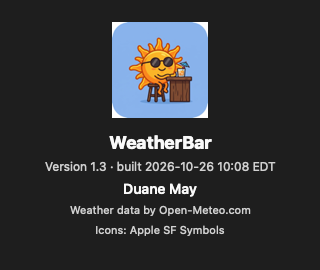
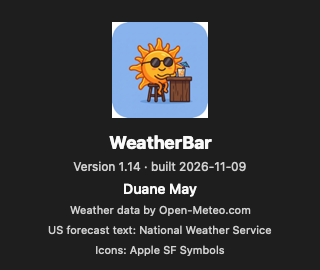
Shorten the README; move technical detail to DEVELOPMENT.md
The README keeps what users need: what it is, features with screenshots, requirements, install, credits and license. Building, test modes, defaults keys, updates, code signing, CI and releasing move to DEVELOPMENT.md. About screenshot refreshed to 1.14.

Changed region(s): [[0.125, 0.8296, 0.8438, 0.9481], [0.125, 0.5926, 0.875, 0.6519]]

diff --git a/README.md b/README.md
@@ -1,39 +1,22 @@
 # WeatherBar
 
-A small native macOS menu bar weather app. The menu bar shows the current conditions icon with two
-stacked columns: the current temperature in °F over °C, and today's high over low. Click it for a
-two-column forecast panel.
+A small weather app for the Mac menu bar. It shows the current conditions with the temperature in °F
+and °C and the day's high and low. Click it for the hourly and 7-day forecast.
 
 ![Dropdown](docs/dropdown.png)
 
 ## Features
 
-- **Menu bar:** conditions icon plus `56°F  H 65°` over `13°C  L 47°`, drawn as a template image so
-  it follows light and dark menu bars.
-- **Dropdown, left column:** current conditions (temperature in both units, feels-like, humidity,
-  wind), then the next 10 hours with temperature, conditions, precipitation chance, wind and gusts,
-  feels-like and humidity.
-- **Dropdown, right column:** today's high and low, conditions, precipitation, humidity, wind,
-  gusts, sunrise and sunset, then the next 7 days with highs, lows, conditions, precipitation chance,
-  rain amount, wind and gusts. In the US, the conditions are the National Weather Service's own wording
-  for each day and night; hover over a day for the full forecast.
-- **Weather alerts (US):** active National Weather Service warnings, watches and advisories appear in a
-  full-width red band between the current conditions and the forecast, and a red dot appears on the menu
-  bar icon. Each alert shows its name, when it ends, who issued it and what's expected; hover for the full
-  text and instructions.
-- **Both units everywhere.** A Celsius-first setting flips every temperature, including the menu
-  bar's high and low.
-- **Location:** uses this Mac's location through Location Services and shows it as "City, ST". If
-  that is denied or unavailable it falls back to a fixed place, Novi, MI by default.
-- **Settings window:** Mac location or fixed place, place search by name, card counts, Celsius
-  first, start at login.
-- **Open Weather App** opens Apple's Weather app. **Refresh** fetches immediately; otherwise it
-  refreshes every 10 minutes and on wake from sleep.
-- **Updates itself** from this repo's GitHub Releases. It checks at launch, every 12 hours, and when
-  the Mac wakes, so a release published at night shows up the next morning. It offers
-  to install a newer version, then downloads it, verifies it, swaps it in place and relaunches. The
-  menu also has **Check for Updates…**.
-- **About window** with version and build date.
+- **Menu bar:** a conditions icon, the temperature in °F over °C, and the high over the low.
+- **Forecast panel:** current conditions and the day ahead at the top, then the next 10 hours and the
+  next 7 days. Every temperature is shown in both °F and °C.
+- **Forecaster wording (US):** each day reads like "Mostly Cloudy then Chance Light Rain", with the
+  night's outlook. Hover over a day for the full forecast.
+- **Weather alerts (US):** warnings, watches and advisories appear in a red band, and a red dot appears
+  on the menu bar icon.
+- **Your location:** uses the Mac's location, or a place you choose in Settings.
+- **Keeps itself up to date:** checks for new versions twice a day and when the Mac wakes, shows what
+  changed, and installs with one click.
 
 ![Weather alert](docs/alert.png)
 
@@ -43,158 +26,27 @@ two-column forecast panel.
 
 ## Requirements
 
-- Apple Silicon Mac, macOS 13 or later. Intel is not supported.
-- To build: Xcode Command Line Tools (`xcode-select --install`). Full Xcode is not needed.
+An Apple Silicon Mac with macOS 13 or later.
 
 ## Install
 
-**From a release:** download `WeatherBar-<version>.zip` from the
-[Releases](../../releases) page, unzip, and open `WeatherBar.app`. It is ad-hoc signed, not
-notarized, so the first launch needs right-click, then Open. Or clear the quarantine flag:
+1. Download `WeatherBar-<version>.zip` from the [Releases](../../releases) page and unzip it.
+2. Right-click `WeatherBar.app` and choose **Open**. WeatherBar isn't from the App Store, so macOS asks
+   you to confirm the first time.
+3. When WeatherBar offers to move itself to the Applications folder, let it. Updates install there.
+4. Allow Location when asked, or pick a place in **Settings…**.
+5. Optional: turn on **Start WeatherBar at login** in Settings.
 
-```bash
-xattr -dr com.apple.quarantine WeatherBar.app
-```
-
-On first launch it offers to move itself to /Applications. Let it: self-update needs a folder it can
-write to, and the login item points at wherever the app is. Then turn on **Start WeatherBar at
-login** in Settings.
-
-## Updates
-
-WeatherBar asks `api.github.com/repos/duanemay/weatherbar/releases/latest` for the newest release at
-launch, every 12 hours, and on wake from sleep when the last check is over an hour old. When it finds a newer version it shows the release notes with **Install
-and Relaunch**, **Later** and **Skip This Version**. Settings has one **Updates** menu: **Ask before installing** (the default),
-**Install automatically**, or **Don't check automatically**. Check for Updates… in the menu works with
-any of them.
-
-Before anything is replaced, the download must pass four checks, and a failure leaves the installed
-app untouched:
-
-1. Its SHA-256 matches the `.sha256` file published with the release.
-2. Its bundle identifier is `com.mayhoo.weatherbar`.
-3. Its version matches the release tag.
-4. Its code signature verifies.
-
-The new copy is unpacked beside the old one. After WeatherBar quits, a short script swaps the two,
-restores the old copy if the swap fails, and relaunches. The checks need the repository to be public,
-because GitHub's release API returns 404 to unauthenticated requests for a private repo.
-
-## Code signing
-
-Releases from 1.14 on are signed with a self-signed **WeatherBar Code Signing** certificate (SHA-1
-`305D14CB4AA12B2559947D3F4CD41D4510371334`). Because every version carries the same signing identity,
-macOS keeps permissions such as Location across updates. The updater also requires that certificate: a
-download signed by anything else is refused, even if its checksum file matches.
-
-The certificate is not from Apple, so Gatekeeper still treats a downloaded copy as coming from an
-unidentified developer on first launch (right-click, then Open). Updates installed by the app itself are
-not quarantined and open normally.
-
-CI imports the certificate from the `SIGNING_CERT_P12` and `SIGNING_CERT_PASSWORD` Actions secrets into a
-temporary keychain and passes it to `build.sh` through `SIGN_IDENTITY` and `SIGN_KEYCHAIN`. Local builds
-without those variables are ad-hoc signed, which is fine for development. Release builds fail if they
-aren't signed with the certificate.
-
-**From source:**
-
-```bash
-./build.sh       # builds build/WeatherBar.app
-./install.sh     # copies it to /Applications and launches it
-```
-
-## Settings from the command line
-
-Everything in the Settings window is a `defaults` key. Quit and relaunch after changing one.
-
-```bash
-defaults write com.mayhoo.weatherbar useLocation  -bool true     # use this Mac's location (default)
-defaults write com.mayhoo.weatherbar useNWS       -bool false    # skip National Weather Service wording
-defaults write com.mayhoo.weatherbar place        -string "Novi, MI"
-defaults write com.mayhoo.weatherbar latitude     -float 42.4806
-defaults write com.mayhoo.weatherbar longitude    -float -83.4755
-defaults write com.mayhoo.weatherbar celsiusFirst -bool true     # °C first, bar high/low in °C
-defaults write com.mayhoo.weatherbar hours        -int 10        # hourly cards
-defaults write com.mayhoo.weatherbar days         -int 7         # daily cards
-defaults write com.mayhoo.weatherbar menuWidth    -float 440     # width of each dropdown column
-defaults write com.mayhoo.weatherbar refreshMinutes -int 10
-defaults write com.mayhoo.weatherbar fontSize     -float 9       # menu bar text size
-defaults write com.mayhoo.weatherbar bigTemp      -bool true     # add a large temp before the columns
-defaults write com.mayhoo.weatherbar skipMovePrompt -bool true   # never offer to move to /Applications
-defaults write com.mayhoo.weatherbar updateMode -string ask         # ask (default), auto, or off
-defaults write com.mayhoo.weatherbar updateCheckHours -float 12     # hours between scheduled checks
-```
-
-## Development
-
-The whole app is one file, `main.swift`, using AppKit, CoreLocation and ServiceManagement. There is
-no Xcode project.
-
-| File | Purpose |
-|---|---|
-| `main.swift` | The app: data fetch, menu bar drawing, dropdown cards, Settings and About windows. |
-| `Info.plist` | Bundle metadata. Menu bar only (`LSUIElement`), location permission text, version. |
-| `build.sh` | Compiles with `swiftc`, builds `AppIcon.icns` from `icon.png`, stamps the build date, ad-hoc signs. |
-| `install.sh` | Copies the built app to /Applications and launches it. |
-| `icon.png` | App icon source, 1024 × 1024. |
-| `docs/` | Screenshots and the alternate icon candidate. |
-
-**Test modes** run headless, which is useful over SSH or in CI:
-
-```bash
-B=build/WeatherBar.app/Contents/MacOS/WeatherBar
-$B --once                          # print one fetch to stdout
-$B --geocode "East Lansing"        # test the place search
-$B --render out.png [--light]      # draw the dropdown to a PNG
-$B --render-settings out.png       # draw the Settings window
-$B --render-about out.png          # draw the About window
-$B --check-update                  # ask GitHub Releases for a newer version
-$B --apply-update                  # download, verify and install a newer version in place
-```
-
-**Testing the updater** without GitHub: serve a release JSON and zip locally and point the app at it
-with `defaults write com.mayhoo.weatherbar updateFeedURL -string http://127.0.0.1:8765/release.json`,
-then run `--apply-update`. Delete the key afterwards.
-
-**Versioning:** the version lives in `Info.plist` (`CFBundleShortVersionString`). Bump it there,
-commit, then tag `v<version>` to publish a release. Installed copies pick it up within 12 hours, or at the next wake.
-
-## Continuous integration
-
-`.github/workflows/build.yml` runs on every push to `main`, on pull requests, and on demand. On an
-Apple Silicon macOS runner it:
-
-1. Builds the app with `build.sh`.
-2. Checks the bundle: valid plist, icon present, arm64 binary, valid signature.
-3. Smoke-tests a live weather fetch and a place search. These don't fail the build if the weather
-   service is unreachable.
-4. Renders the dropdown, Settings and About windows to PNGs.
-5. Zips the app, writes its SHA-256 checksum, and uploads both plus the renders as build artifacts.
-
-**Dependencies:** the app has no third-party libraries; it uses only macOS system frameworks. The
-only external dependencies are the workflow's GitHub Actions, pinned to commit SHAs. Dependabot
-(`.github/dependabot.yml`) checks them every Monday and opens one grouped pull request when any have a
-new release.
-
-Pushing a tag such as `v1.5` also publishes a GitHub Release with the zip and its `.sha256` file
-attached. The installed apps' updater reads exactly those two files. The
-release job fails if the tag doesn't match the version in `Info.plist`.
+After that, updates arrive on their own. **Check for Updates…** in the menu looks right away.
 
 ## Data and credits
 
-- Weather numbers and place search from [Open-Meteo](https://open-meteo.com), free with no API key.
-- In the US, forecast wording from the [National Weather Service](https://www.weather.gov/documentation/services-web-api)
-  (`api.weather.gov`, free, no key): each day's phrase such as "Mostly Cloudy then Chance Light Rain",
-  the night's phrase, and the current period's full forecast in the Today card. Hover over a day for the
-  forecaster's full text. Elsewhere, or if NWS doesn't answer within 10 seconds, the cards show Open-Meteo's
-  one-word conditions. The temperatures always come from Open-Meteo, so they can differ by a few degrees
-  from the numbers inside the NWS text.
-- In the US, active alerts from the same service (`api.weather.gov/alerts/active`), checked at every
-  weather refresh.
-- Icons are Apple SF Symbols, the same family Apple Weather uses.
-- **Why not Apple WeatherKit:** it requires a paid Apple Developer Program membership and an app
-  signed with the WeatherKit entitlement. Switching would mean replacing `fetchWeather` with a
-  `WeatherService` call and signing with a developer certificate.
+- Weather from [Open-Meteo](https://open-meteo.com).
+- US forecast wording and alerts from the [National Weather Service](https://www.weather.gov).
+- Icons are Apple SF Symbols.
+
+Building it yourself, the settings you can change from Terminal, and how updates and releases work are
+in [DEVELOPMENT.md](DEVELOPMENT.md).
 
 ## License
 

diff --git a/DEVELOPMENT.md b/DEVELOPMENT.md
@@ -1,0 +1,135 @@
+# Developing WeatherBar
+
+## Building
+
+The whole app is one file, `main.swift`, using AppKit, CoreLocation, ServiceManagement and CryptoKit.
+There is no Xcode project and no third-party code. You need an Apple Silicon Mac with the Xcode Command
+Line Tools (`xcode-select --install`).
+
+```bash
+./build.sh       # builds build/WeatherBar.app
+./install.sh     # copies it to /Applications and launches it
+```
+
+| File | Purpose |
+|---|---|
+| `main.swift` | The app: data fetch, menu bar drawing, forecast cards, Settings and About windows, updater. |
+| `Info.plist` | Bundle metadata. Menu bar only (`LSUIElement`), location permission text, version. |
+| `build.sh` | Compiles with `swiftc`, builds `AppIcon.icns` from `icon.png`, stamps the build date, signs. |
+| `install.sh` | Copies the built app to /Applications and launches it. |
+| `icon.png` | App icon source, 1024 × 1024. |
+| `docs/` | Screenshots and the alternate icon candidate. |
+
+## Test modes
+
+These run without a screen, which is useful over SSH and in CI.
+
+```bash
+B=build/WeatherBar.app/Contents/MacOS/WeatherBar
+$B --once                          # print one fetch, including NWS wording and alerts
+$B --geocode "East Lansing"        # test the place search
+$B --render out.png [--light]      # draw the forecast panel to a PNG
+$B --render-settings out.png       # draw the Settings window
+$B --render-about out.png          # draw the About window
+$B --render-bar out.png            # draw the menu bar item, with the alert dot, on dark and light bars
+$B --check-update                  # ask GitHub Releases for a newer version
+$B --apply-update                  # download, verify and install a newer version in place
+```
+
+To test the updater without GitHub, serve a release JSON and zip locally, point the app at it with
+`defaults write com.mayhoo.weatherbar updateFeedURL -string http://127.0.0.1:8765/release.json`, run
+`--apply-update`, then delete the key.
+
+## Settings from the command line
+
+Everything in the Settings window is a `defaults` key. Quit and relaunch after changing one.
+
+```bash
+defaults write com.mayhoo.weatherbar useLocation  -bool true     # use this Mac's location (default)
+defaults write com.mayhoo.weatherbar place        -string "Novi, MI"
+defaults write com.mayhoo.weatherbar latitude     -float 42.4806
+defaults write com.mayhoo.weatherbar longitude    -float -83.4755
+defaults write com.mayhoo.weatherbar useNWS       -bool false    # skip National Weather Service wording and alerts
+defaults write com.mayhoo.weatherbar celsiusFirst -bool true     # °C first, bar high/low in °C
+defaults write com.mayhoo.weatherbar hours        -int 10        # hourly cards
+defaults write com.mayhoo.weatherbar days         -int 7         # daily cards
+defaults write com.mayhoo.weatherbar menuWidth    -float 440     # width of each panel column
+defaults write com.mayhoo.weatherbar refreshMinutes -int 10
+defaults write com.mayhoo.weatherbar fontSize     -float 9       # menu bar text size
+defaults write com.mayhoo.weatherbar bigTemp      -bool true     # add a large temperature before the columns
+defaults write com.mayhoo.weatherbar skipMovePrompt -bool true   # never offer to move to /Applications
+defaults write com.mayhoo.weatherbar updateMode   -string ask    # ask (default), auto, or off
+defaults write com.mayhoo.weatherbar updateCheckHours -float 12  # hours between scheduled update checks
+```
+
+## Data sources
+
+- **Open-Meteo** supplies every number and the place search. Free, no key.
+- **National Weather Service** (`api.weather.gov`, US only, free, no key) supplies the wording for each
+  day and night period, the current period's full forecast in the Today card, and active alerts. The
+  app matches each day to the daytime period on that date and the night period starting that evening.
+  Outside the US, or if the service doesn't answer within 10 seconds, the cards fall back to
+  Open-Meteo's one-word conditions. Temperatures always come from Open-Meteo, so they can differ by a
+  few degrees from the numbers inside the NWS text.
+- **Why not Apple WeatherKit:** it needs a paid Apple Developer Program membership and an app signed with
+  the WeatherKit entitlement.
+
+## How updates work
+
+The app asks `api.github.com/repos/duanemay/weatherbar/releases/latest` for the newest release at
+launch, every 12 hours, and after a wake when the last check is over an hour old. When it finds a newer
+version, it shows the notes of every release since the installed one. The choices are **Install and
+Relaunch**, **Later** (which holds that version's prompt for 12 hours) and **Skip This Version**.
+
+Before anything is replaced, the download must pass five checks. If any fails, the installed app is
+left untouched.
+
+1. Its SHA-256 matches the `.sha256` file published with the release.
+2. Its bundle identifier is `com.mayhoo.weatherbar`.
+3. Its version matches the release tag.
+4. Its code signature verifies.
+5. It is signed with the WeatherBar certificate below.
+
+The new copy is unpacked beside the old one. After WeatherBar quits, a short script swaps the two,
+restores the old copy if the swap fails, and relaunches.
+
+## Code signing
+
+Releases from 1.14 on are signed with a self-signed **WeatherBar Code Signing** certificate, SHA-1
+`305D14CB4AA12B2559947D3F4CD41D4510371334`. Every version carries the same signing identity, so macOS
+keeps permissions such as Location across updates. The updater pins this certificate in
+`releaseSigningRequirement`, so changing it means shipping a new pin first.
+
+The certificate isn't from Apple, so a freshly downloaded copy needs right-click, then Open, the first
+time. Updates installed by the app aren't quarantined and open normally.
+
+CI imports the certificate from the `SIGNING_CERT_P12` and `SIGNING_CERT_PASSWORD` Actions secrets into
+a temporary keychain and passes it to `build.sh` through `SIGN_IDENTITY` and `SIGN_KEYCHAIN`. Local
+builds without those variables are ad-hoc signed, which is fine for development.
+
+## Continuous integration
+
+`.github/workflows/build.yml` runs on every push to `main`, on pull requests, and on demand. On an Apple
+Silicon macOS runner it:
+
+1. Builds and signs the app.
+2. Checks the bundle: valid plist, icon present, arm64 binary, valid signature. Tag builds must also
+   carry the WeatherBar certificate.
+3. Smoke-tests a live weather fetch and a place search. These don't fail the build if the weather
+   service is unreachable.
+4. Renders the panel, Settings and About windows to PNGs.
+5. Zips the app, writes its SHA-256 checksum, and uploads both plus the renders as build artifacts.
+
+The only external dependencies are the workflow's GitHub Actions, pinned to commit SHAs. Dependabot
+(`.github/dependabot.yml`) checks them every Monday and opens one grouped pull request for any updates.
+
+## Releasing
+
+1. Bump `CFBundleShortVersionString` (and `CFBundleVersion`) in `Info.plist`.
+2. Commit, then push an annotated tag `v<version>`.
+
+The release job publishes the zip and its `.sha256` file, and fails if the tag doesn't match
+`Info.plist`. Its notes list the commits since the previous tag that touched `main.swift`,
+`Info.plist` or `icon.png`, one bullet each, after any summary written in the tag message. Users see
+these notes in the update prompt, so write commit subjects for them. Installed copies pick up a release
+within 12 hours, or at the next wake.
